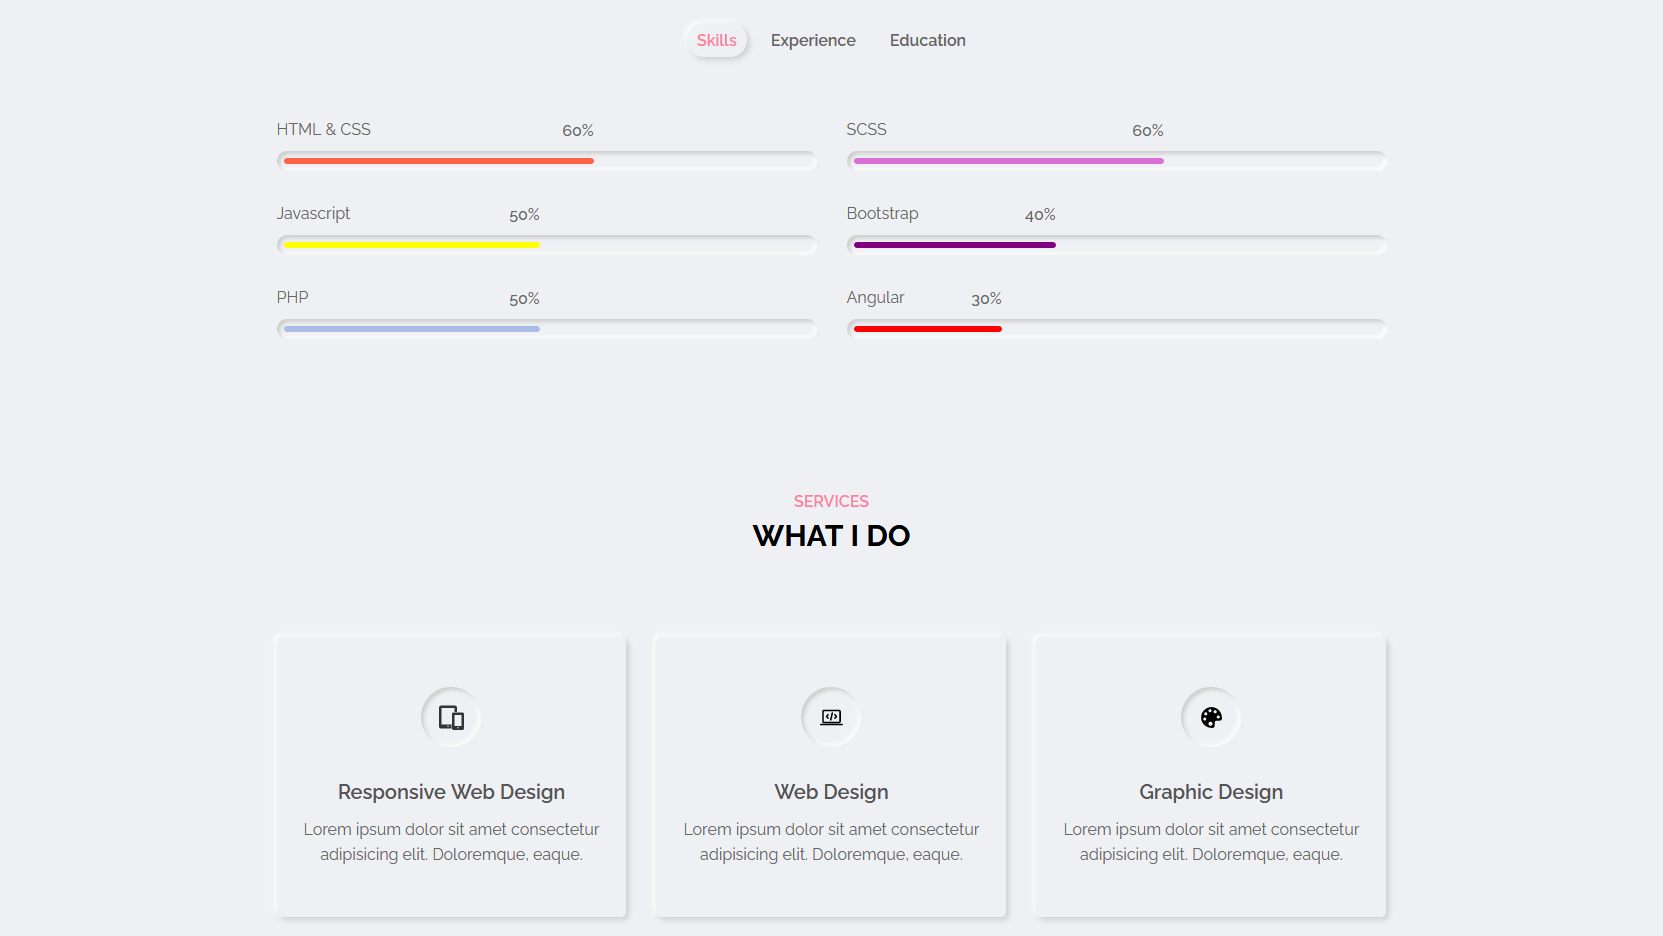
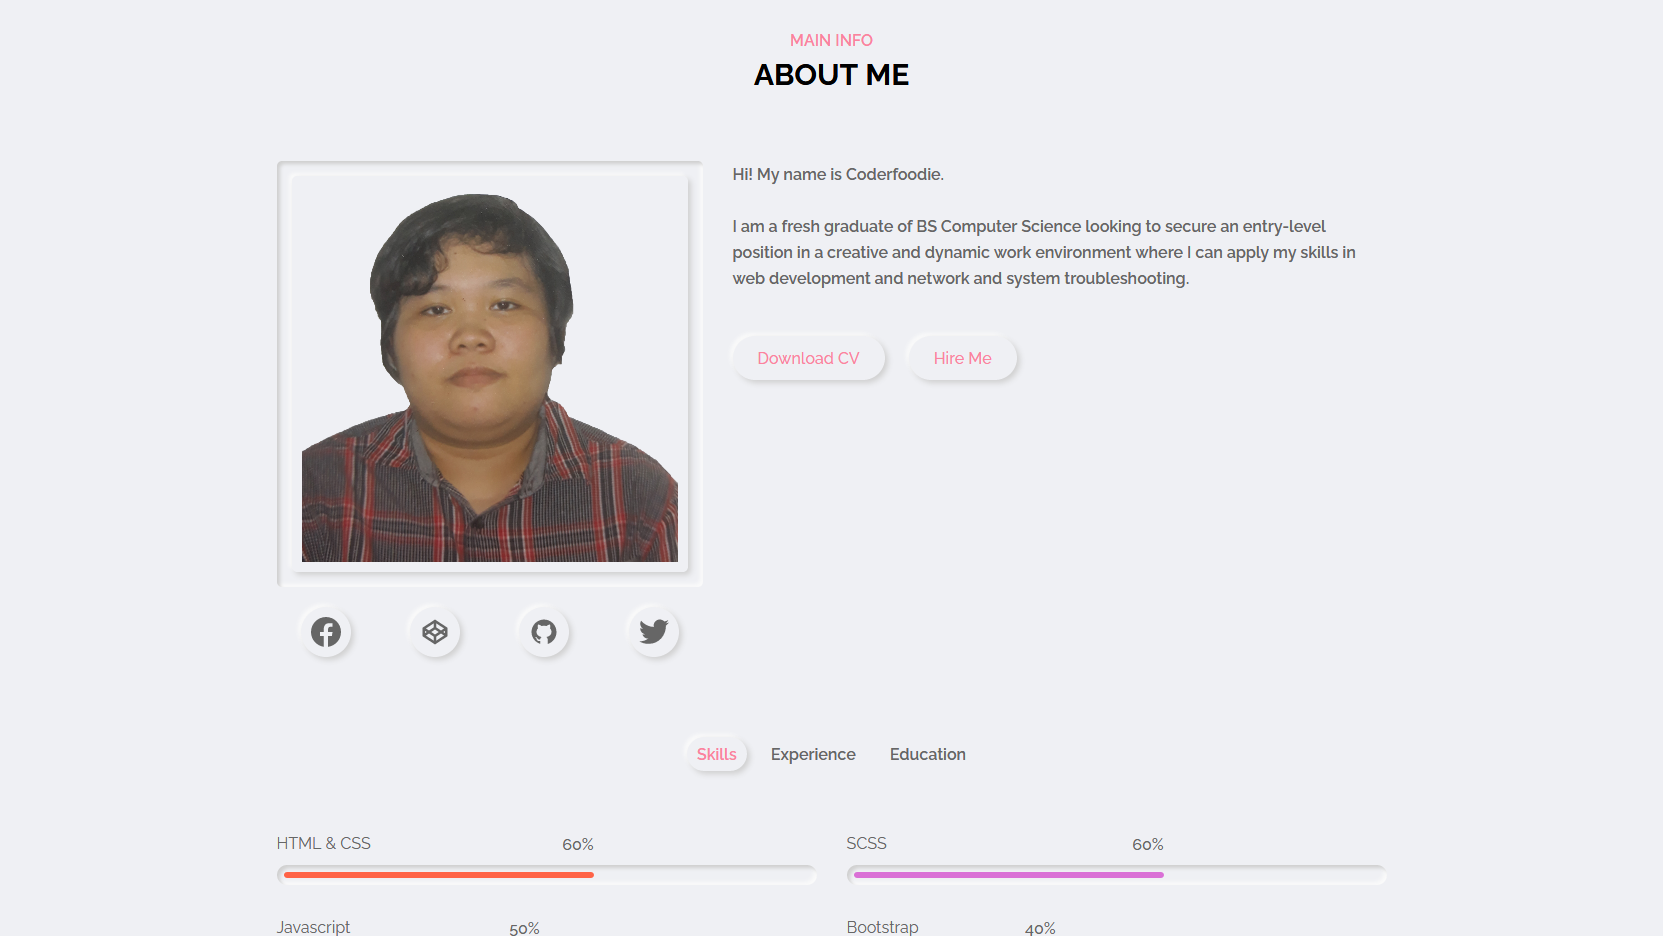
update myPortfolio

diff --git a/js/main.js b/js/main.js
@@ -69,9 +69,17 @@ function bodyScrollingToggle() {
             screenshots = portfolioItems[itemIndex].querySelector(".portfolio-item-img img").getAttribute("data-screenshots")
             // convert ss to array
             screenshots = screenshots.split(",")
+            if (screenshots.length === 1) {
+                prevBtn.style.display = "none"
+                nextBtn.style.display = "none"
+            } else {
+                prevBtn.style.display = "block"
+                nextBtn.style.display = "block"
+            }
             slideIndex = 0
             popupToggle()
             popupSlideshow()
+            // popupDetails()
         }
     })
 
@@ -86,7 +94,6 @@ function bodyScrollingToggle() {
 
     function popupSlideshow() {
         const imgSrc = screenshots[slideIndex]
-        console.log(imgSrc);
         const popupImg = popup.querySelector(".pp-img")
         // activate loader untill the popupImg loaded
         popup.querySelector(".pp-loader").classList.add("active")
@@ -96,6 +103,44 @@ function bodyScrollingToggle() {
             popup.querySelector(".pp-loader").classList.remove("active")
         }
         popup.querySelector(".pp-counter").innerHTML = (slideIndex + 1) + " of " + screenshots.length
+    }
+    // next slide index
+    nextBtn.addEventListener("click", () => {
+        if (slideIndex ===  screenshots.length - 1) {
+            slideIndex = 0
+        } else {
+            slideIndex++
+        }
+        popupSlideshow()
+    })
+
+    // prev slide
+    prevBtn.addEventListener("click", () => {
+        if (slideIndex === 0) {
+            slideIndex + (screenshots.length - 1)
+        } else {
+            slideIndex--
+        }
+        popupSlideshow()
+    })
+
+    projectDetailsBtn.addEventListener("click", () => {
+        popupDetailsToggle()
+    })
+
+    function popupDetailsToggle() {
+        if (projectDetailsCont.classList.contains("active")) {
+            projectDetailsBtn.querySelector(".pp-project-details-btn i").classList.remove("fa-minus")
+            projectDetailsBtn.querySelector(".pp-project-details-btn i").classList.add("fa-plus")
+            projectDetailsCont.classList.remove("active")
+            projectDetailsCont.style.maxHeight = 0 + "px"
+        } else {
+            projectDetailsBtn.querySelector(".pp-project-details-btn i").classList.remove("fa-plus")
+            projectDetailsBtn.querySelector(".pp-project-details-btn i").classList.add("fa-minus")
+            projectDetailsCont.classList.add("active")
+            projectDetailsCont.style.maxHeight = projectDetailsCont.scrollHeight + "px"
+            popup.scrollTo(0, projectDetailsCont.offsetTop)
+        }
     }
 
 })();

diff --git a/index.html b/index.html
@@ -89,7 +89,7 @@
             <div class="row">
                 <div class="about-img">
                     <div class="img-box inner-shadow">
-                        <img src="./img/me.png" class="outer-shadow" alt="profile-pic">
+                        <img src="./img/me-001.jpg" class="outer-shadow" alt="profile-pic">
                     </div>
                     <!-- social links -->
                     <div class="social-links">

diff --git a/css/_base.scss b/css/_base.scss
@@ -832,7 +832,10 @@ img{vertical-align: middle;max-width: 100%;}
         max-height: 0;
         overflow: hidden;
         opacity: 0;
+        transition: all 0.5s ease;
     }
+
+    .pp-details.active{opacity: 1;}
 
     .pp-details-inner{
         padding: 30px 0;

diff --git a/css/styles.css b/css/styles.css
@@ -1089,6 +1089,12 @@ img {
   max-height: 0;
   overflow: hidden;
   opacity: 0;
+  -webkit-transition: all 0.5s ease;
+  transition: all 0.5s ease;
+}
+
+.portfolio-popup .pp-details.active {
+  opacity: 1;
 }
 
 .portfolio-popup .pp-details-inner {
